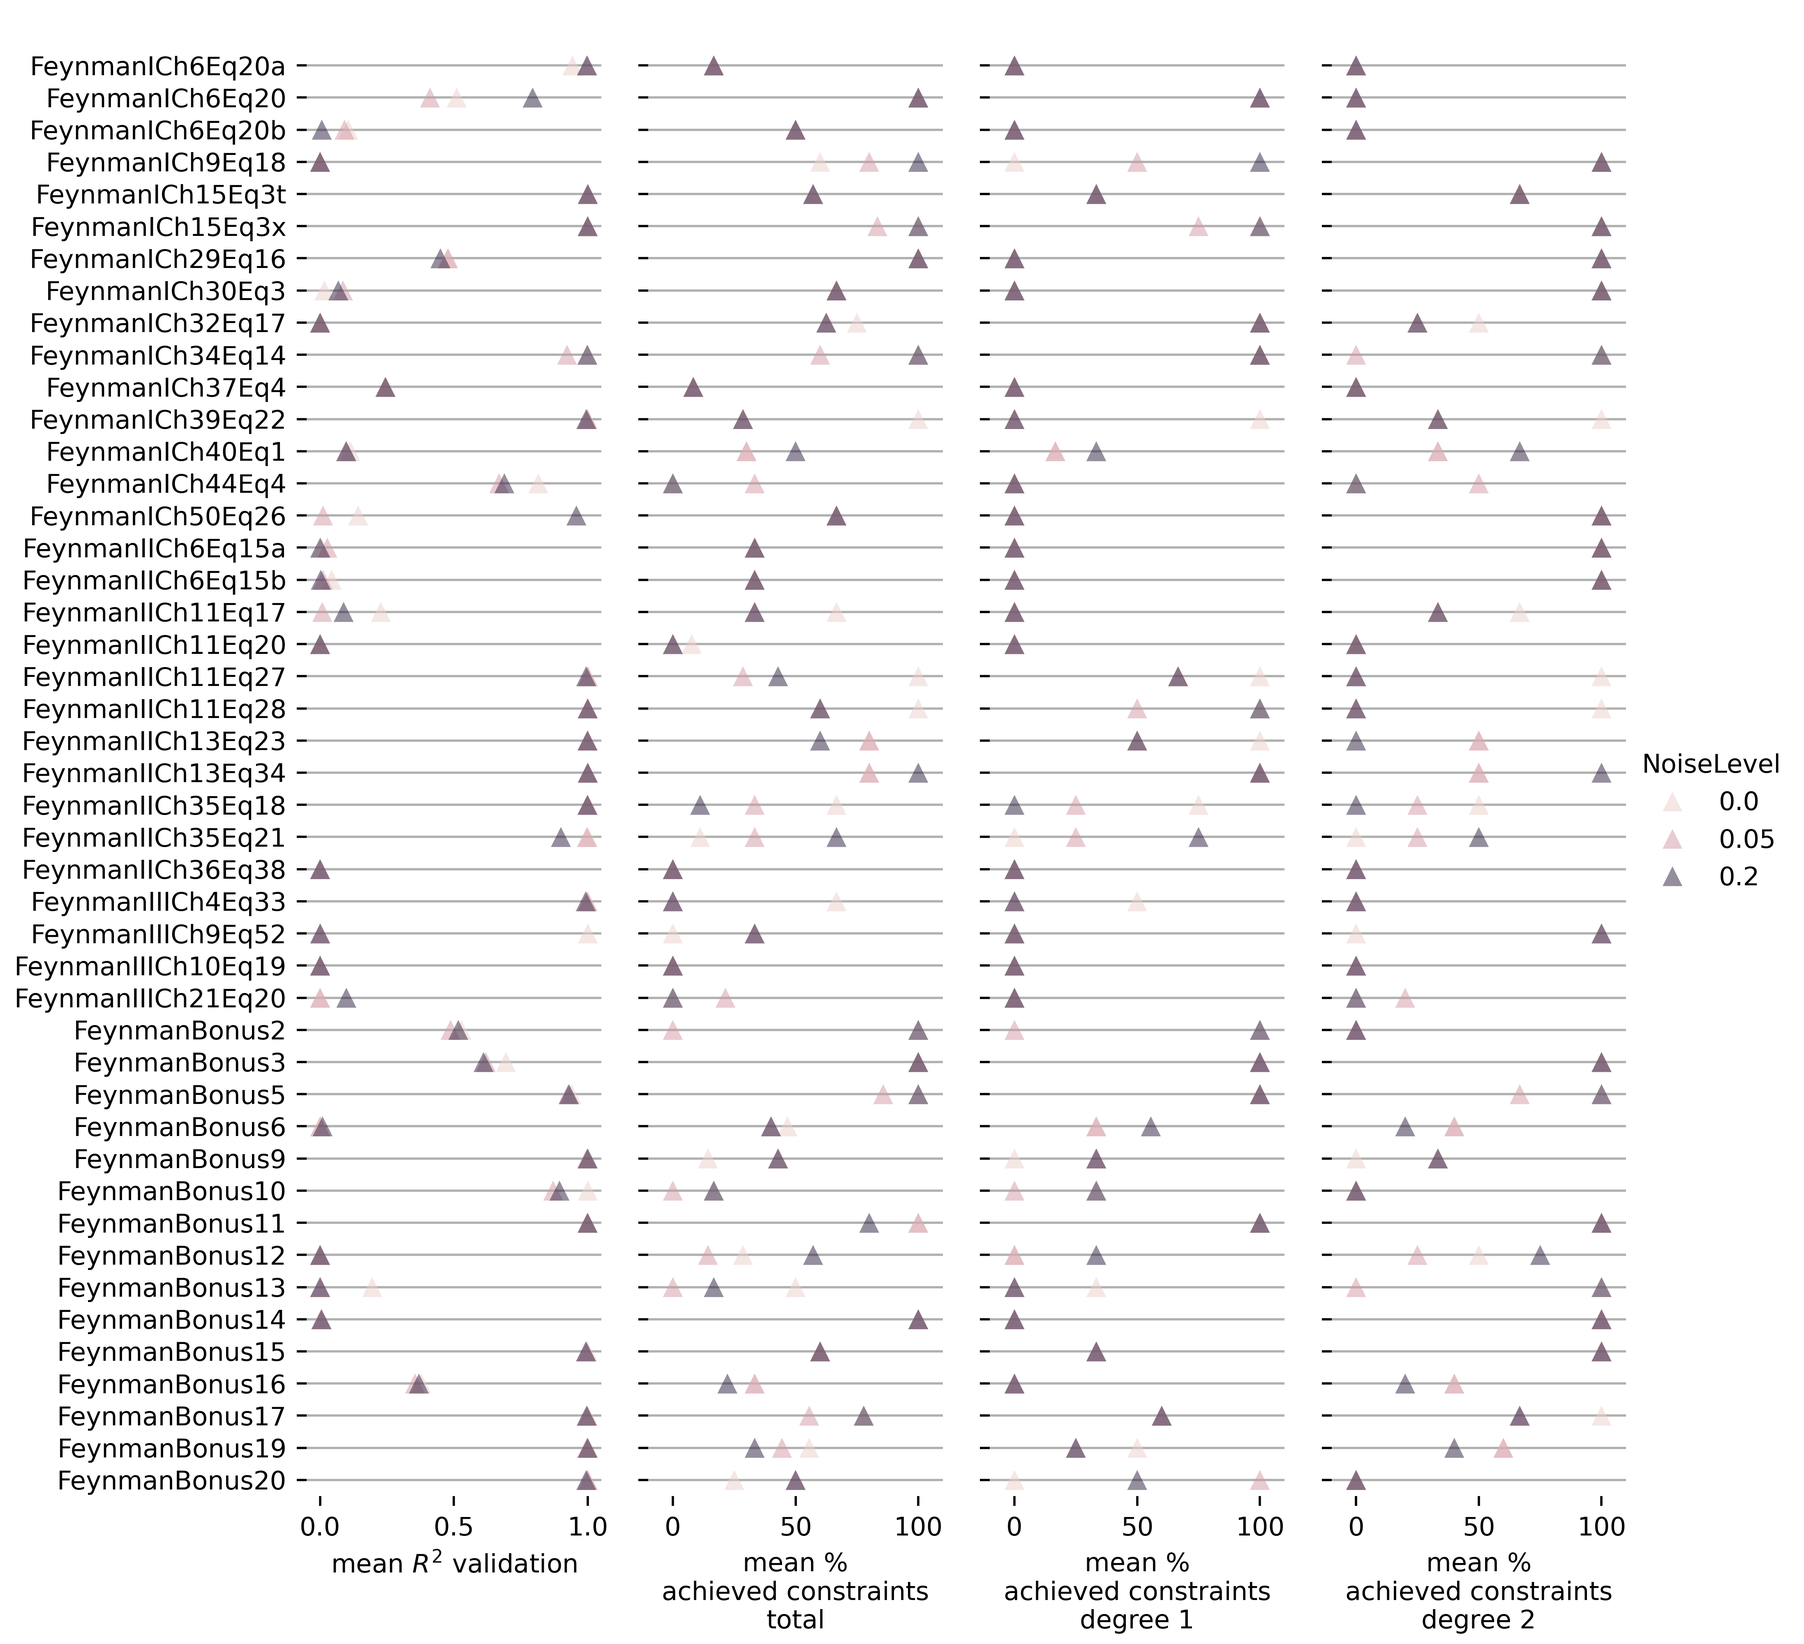
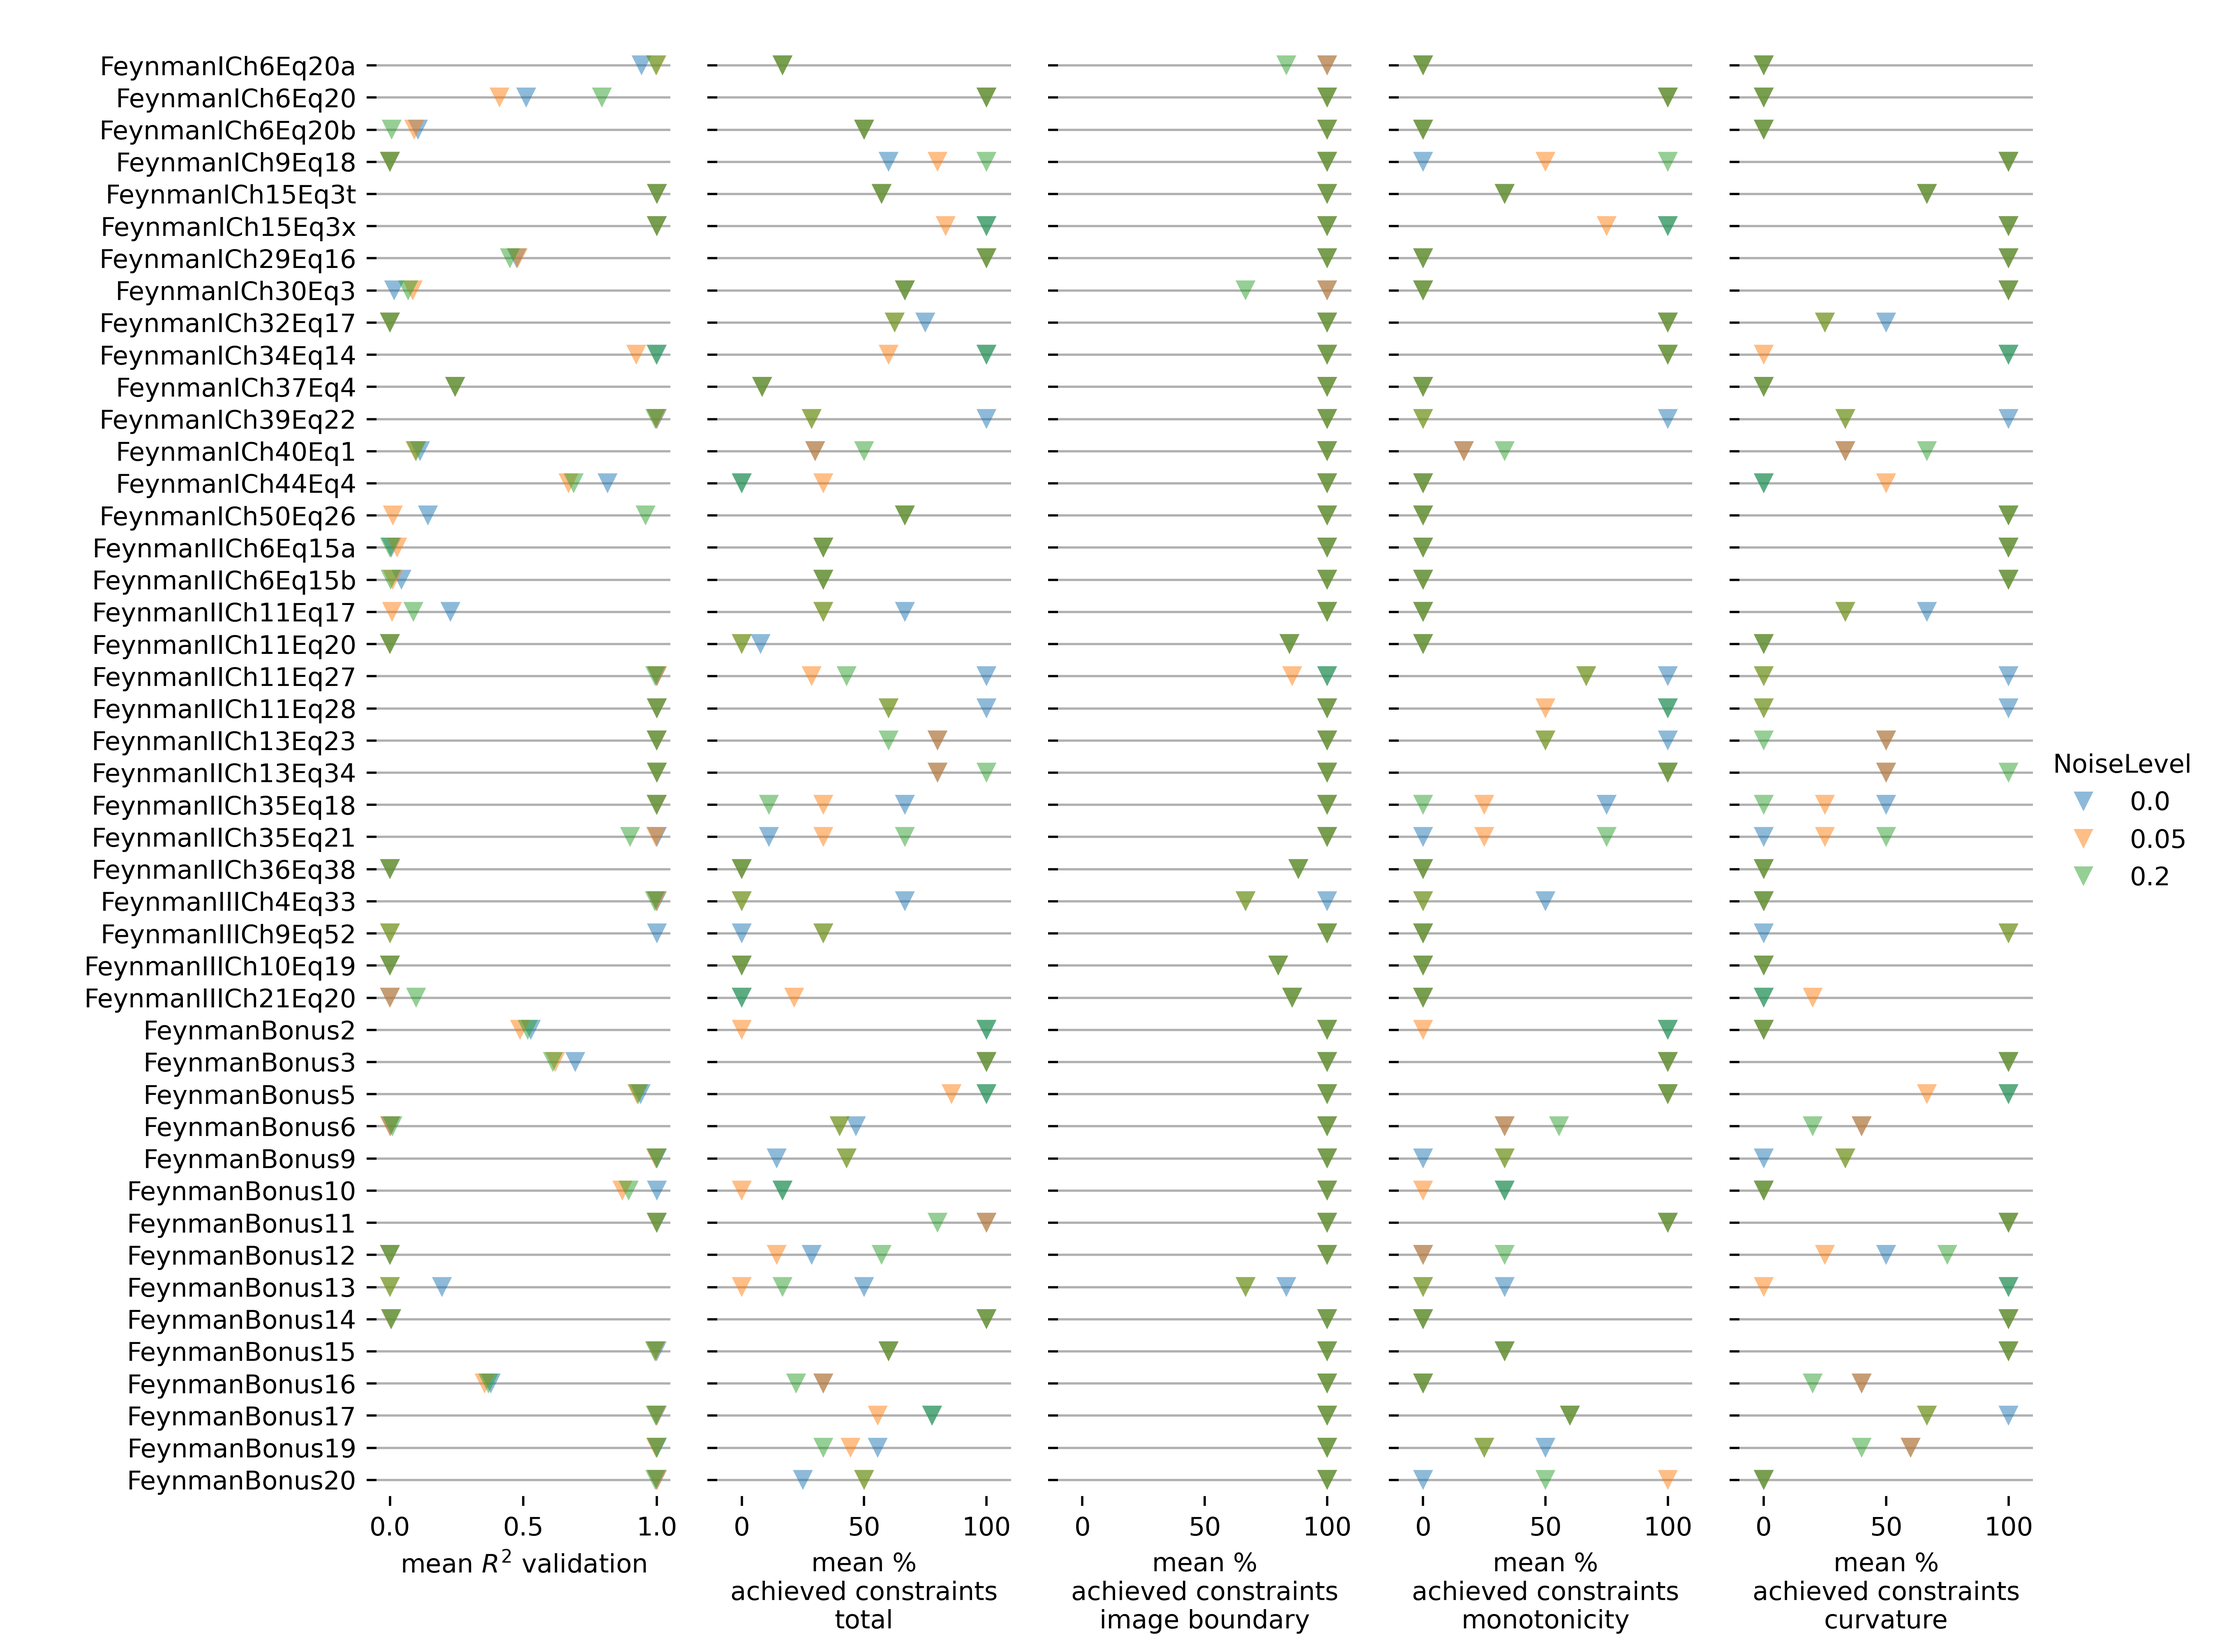
add image boundary to dotplot, use different color schema

diff --git a/results/6-dotplot.py b/results/6-dotplot.py
@@ -23,23 +23,30 @@ results = pd.read_csv('./results/4-R2Score-and-Violations.csv')
 results['EquationName'] = [val.split('_')[0] for val in results["Instance"]]
 results['SampleSize'] = [ int(filename.split('_')[1]) for filename in results['Instance']]
 results['NoiseLevel'] = [ float(filename.split('_')[2].replace(',','.')) for filename in results['Instance']]
+results['ConstraintsDerivative0Count'] = results['ConstraintsCount'] - (results['ConstraintsDerivative1Count'] + results['ConstraintsDerivative2Count'])
+results['ConstraintsViolatedDerivative0Count'] = results['ConstraintsViolated'] - (results['ConstraintsViolatedDerivative1Count'] + results['ConstraintsViolatedDerivative2Count'])
 
 print(np.unique(results['EquationName']))
 print(len(np.unique(results['EquationName'])))
 
 results['ConstraintsCount'].fillna(1, inplace=True)
+results['ConstraintsDerivative0Count'].fillna(1, inplace=True)
 results['ConstraintsDerivative1Count'].fillna(1, inplace=True)
 results['ConstraintsDerivative2Count'].fillna(1, inplace=True)
 results['ConstraintsViolated'].fillna(1, inplace=True)
+results['ConstraintsViolatedDerivative0Count'].fillna(1, inplace=True)
 results['ConstraintsViolatedDerivative1Count'].fillna(1, inplace=True)
 results['ConstraintsViolatedDerivative2Count'].fillna(1, inplace=True)
 results['Test'].fillna(-10, inplace=True)
+results['R2_Test'] = results['Test']
 
 results['ConstraintsAchievedScaled'] = (1-(results['ConstraintsViolated']/results['ConstraintsCount']) ) * 100
+results['ConstraintsAchievedDerivative0Scaled'] = (1-((results['ConstraintsViolated']-results['ConstraintsViolatedDerivative1Count']-results['ConstraintsViolatedDerivative2Count'])/results['ConstraintsCount'])) * 100
 results['ConstraintsAchievedDerivative1Scaled'] = (1-(results['ConstraintsViolatedDerivative1Count']/results['ConstraintsDerivative1Count'])) * 100
 results['ConstraintsAchievedDerivative2Scaled'] = (1-(results['ConstraintsViolatedDerivative2Count']/results['ConstraintsDerivative2Count'])) * 100
 
 results['ConstraintsAchievedScaled'].fillna(0, inplace=True)
+results['ConstraintsAchievedDerivative0Scaled'].fillna(0, inplace=True)
 results['ConstraintsAchievedDerivative1Scaled'].fillna(0, inplace=True)
 results['ConstraintsAchievedDerivative2Scaled'].fillna(0, inplace=True)
 
@@ -49,7 +56,8 @@ results['EquationName'] = results['EquationName'].cat.set_categories(FEYNMAN_SRS
 
 
 print(results[['ConstraintsCount','ConstraintsViolated','ConstraintsAchievedScaled']])
-results = results[['EquationName','SampleSize','NoiseLevel', 'Test',"ConstraintsAchievedScaled","ConstraintsAchievedDerivative1Scaled","ConstraintsAchievedDerivative2Scaled" ]]
+results = results[['EquationName','SampleSize','NoiseLevel', 'R2_Test',"ConstraintsAchievedScaled","ConstraintsAchievedDerivative0Scaled","ConstraintsAchievedDerivative1Scaled","ConstraintsAchievedDerivative2Scaled" ]]
+
 results = results.groupby(
     ['EquationName','SampleSize','NoiseLevel' ]).median().reset_index()
 results.index = pd.RangeIndex(len(results.index))
@@ -63,13 +71,12 @@ for sampleSize in [1000,10000]:
 
   df = df.sort_values(['EquationName','SampleSize','NoiseLevel'])
   g = sns.PairGrid(df,
-                  x_vars=['Test',"ConstraintsAchievedScaled","ConstraintsAchievedDerivative1Scaled","ConstraintsAchievedDerivative2Scaled"], y_vars=["EquationName"],
+                  x_vars=['R2_Test',"ConstraintsAchievedScaled","ConstraintsAchievedDerivative0Scaled","ConstraintsAchievedDerivative1Scaled","ConstraintsAchievedDerivative2Scaled"], y_vars=["EquationName"],
                   height=8, aspect=.25, hue = 'NoiseLevel')
   plt.subplots_adjust(left=0.17, bottom=0.09, right=0.90, top=0.97, wspace=0.16, hspace=0.1)
 
   # Draw a dot plot using the stripplot function
-  g.map(sns.stripplot, size=7, orient="h", jitter=False,
-        palette="flare_r", linewidth=0, edgecolor=None, marker = '^', alpha = 0.5)
+  g.map(sns.stripplot, size=7, orient="h", jitter=False, hue = 'NoiseLevel', data = df, palette = 'tab10', marker = 'v', alpha = 0.5)
   g.add_legend()
 
   for ax in g.axes.flat:
@@ -77,14 +84,16 @@ for sampleSize in [1000,10000]:
       ax.xaxis.grid(False)
       ax.yaxis.grid(True)
       label = ax.get_xlabel()
-      if(label == "Test"):
+      if(label == "R2_Test"):
         ax.set( xlabel="mean $R^2$ validation", ylabel="")
       if(label == "ConstraintsAchievedScaled"):
         ax.set(xlim=(-10,110), xlabel="mean %\nachieved constraints\ntotal", ylabel="")
+      if(label == "ConstraintsAchievedDerivative0Scaled"):
+        ax.set(xlim=(-10,110), xlabel="mean %\nachieved constraints\nimage boundary", ylabel="")
       if(label == "ConstraintsAchievedDerivative1Scaled"):
-        ax.set(xlim=(-10,110), xlabel="mean %\nachieved constraints\ndegree 1", ylabel="")
+        ax.set(xlim=(-10,110), xlabel="mean %\nachieved constraints\nmonotonicity", ylabel="")
       if(label == "ConstraintsAchievedDerivative2Scaled"):
-        ax.set(xlim=(-10,110), xlabel="mean %\nachieved constraints\ndegree 2", ylabel="")
+        ax.set(xlim=(-10,110), xlabel="mean %\nachieved constraints\ncurvature", ylabel="")
 
 
   sns.despine(left=True, bottom=True)
